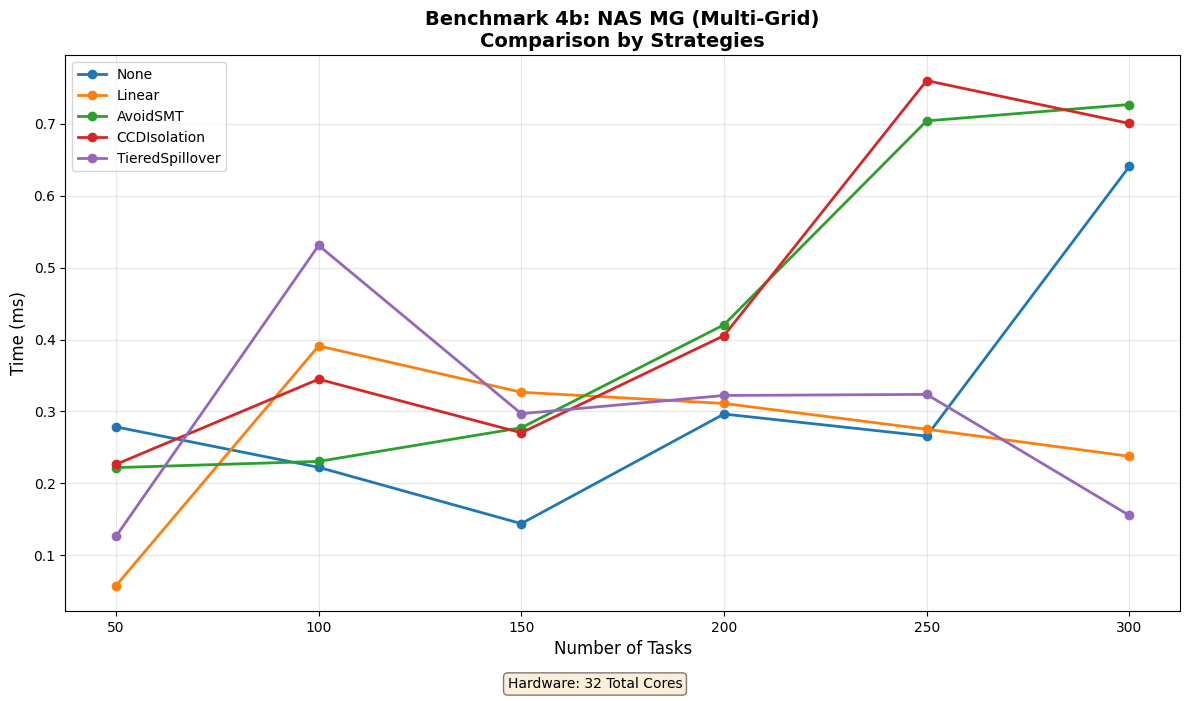
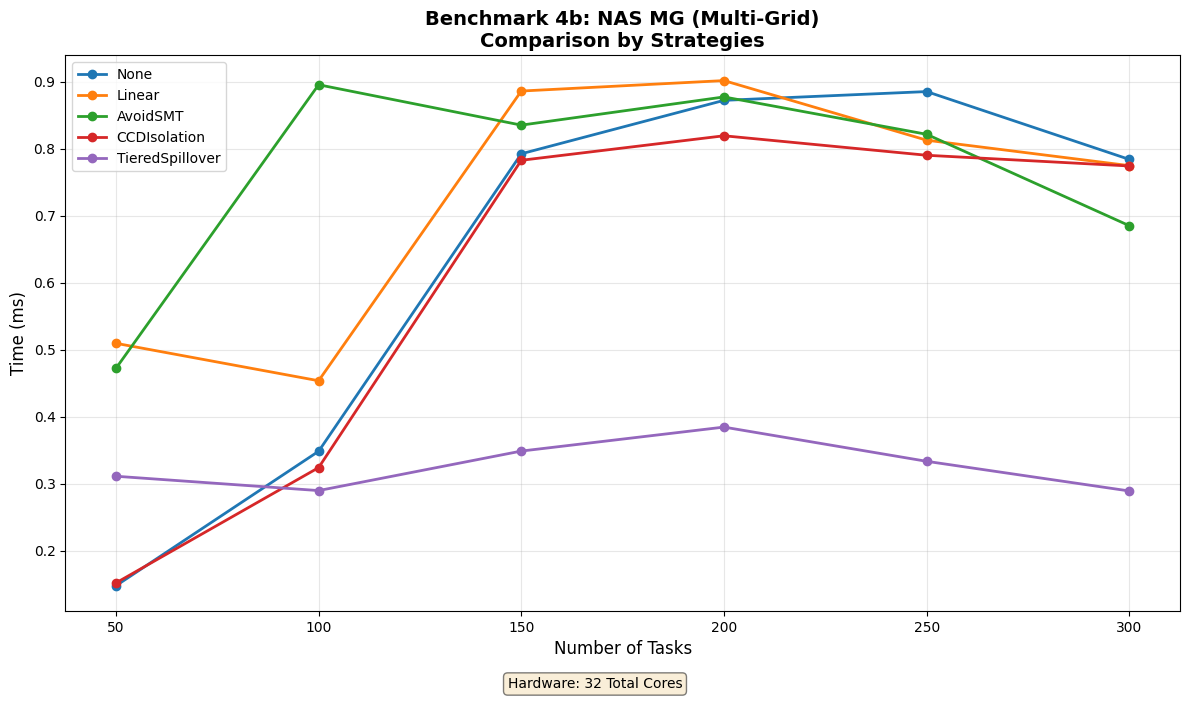
implemented the "Deep Idle" (Sleep) fix to mitigate the SMT performance spike.

diff --git a/src/worker.rs b/src/worker.rs
@@ -204,8 +204,15 @@ impl Worker {
                     active_workers.fetch_sub(1, Ordering::Relaxed);
                 }
                 None => {
-                    // No work available, use backoff to spin then yield
-                    backoff.snooze();
+                    // No work available
+                    if backoff.is_completed() {
+                        // Deep Idle: Release SMT resources completely for a short while
+                        thread::sleep(std::time::Duration::from_micros(100));
+                        backoff.reset();
+                    } else {
+                        // Brief Idle: Spin or yield
+                        backoff.snooze();
+                    }
                 }
             }
         }
